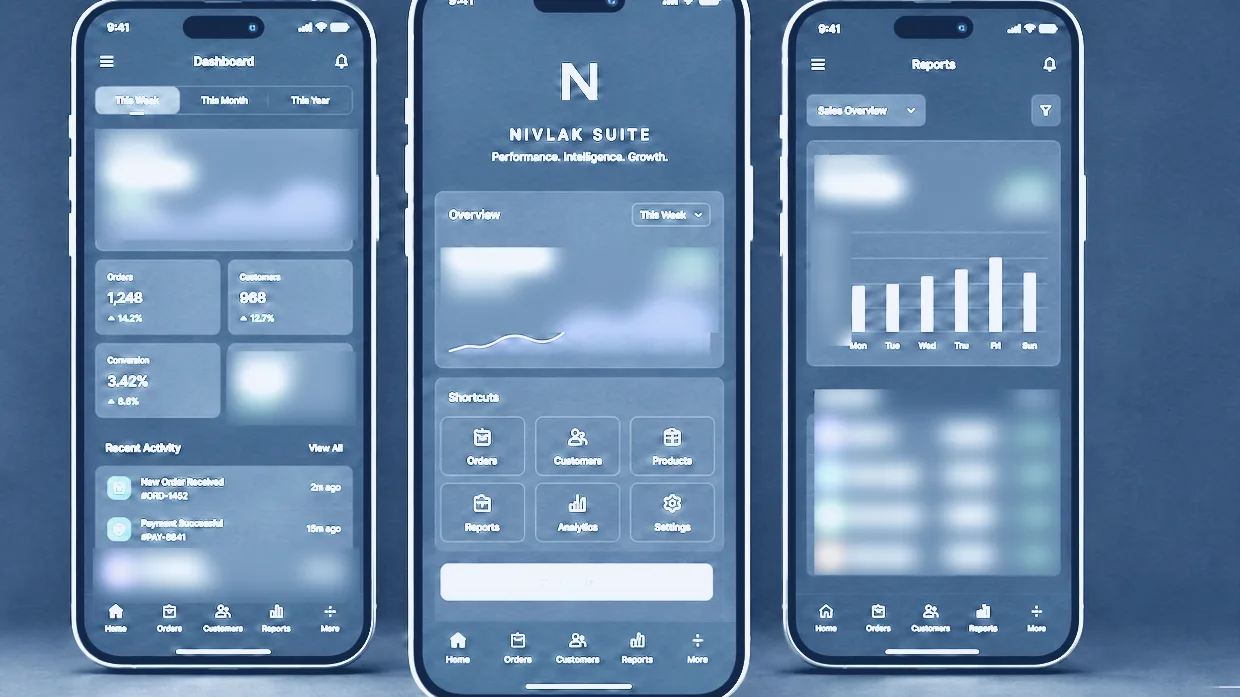
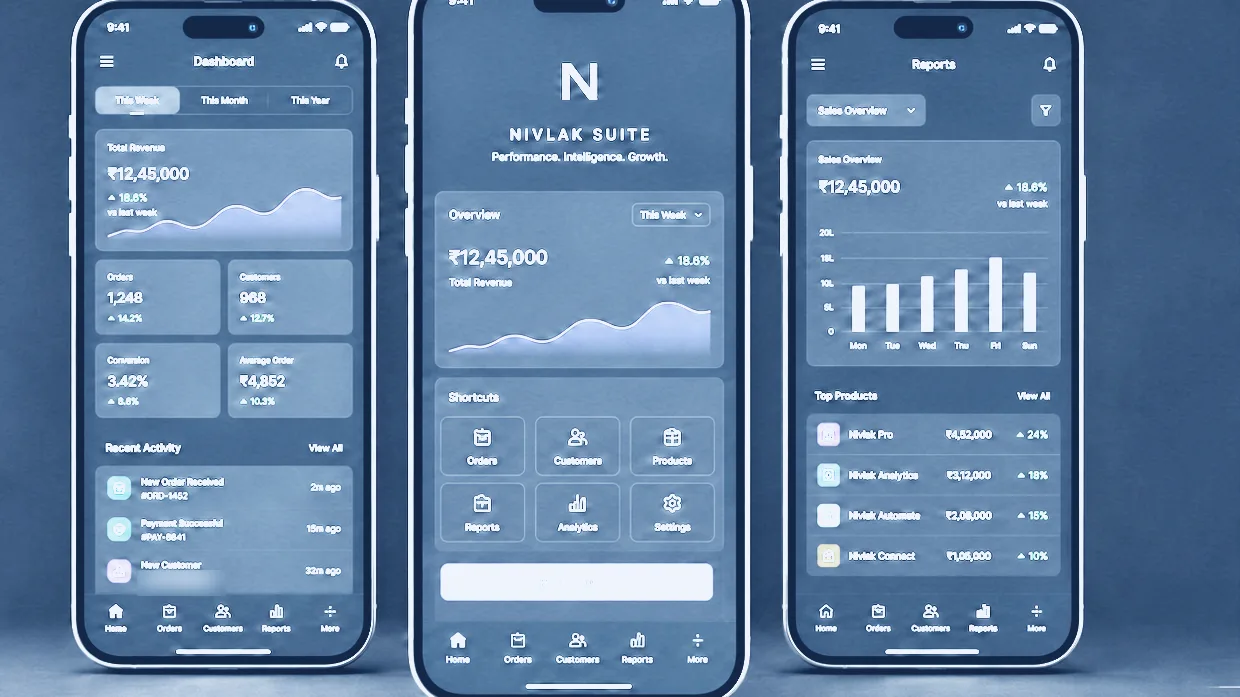
Redact only the customer's name on 04's mobile plate
The rule was "blur anything that names a party or states money", and
mobile is what proved the disjunction too broad. Seven boxes covered
both revenue cards, the axis labels, the sales chart and a Top Products
table listing Nivlak's OWN products; once the tone came up to 03's
contrast the plate read as a censored phone rather than as software. A
third of the picture was smear, and a plate you cannot read fails the
only reason these are photographs and not emblems.

Six of the seven were over the app talking about itself. A KPI card
reading "Total Revenue Rs 12,45,000" inside a dashboard mockup is the
demo app's sample data, the same kind of thing as "128 tasks completed,
up 24%" that this file already kept. What makes a picture read as
delivered client work is a company that could be phoned AGAINST an
amount that could have been paid -- both halves, not either.

So: 96x28 over the second line of one activity row, where "New Customer"
is followed by "Acme Corporation". The label and the timestamp stay
legible; a customer arriving is a thing an app does, and only the
customer's name is a claim about the world.

The two client TABLES on the web and SaaS plates are the other kind and
do not move. Their money-only boxes are noted in the header as no longer
required by the refined rule; they are small and left in place.

Claude-Session: https://claude.ai/code/session_01TT9zK3uUmLrvKdM5gyNRsc

diff --git a/CLAUDE.md b/CLAUDE.md
@@ -466,9 +466,17 @@ against amounts paid, MRR, churn. Chapter 04's whole argument is that a reader
 can tell a study from a build, and a picture of a named client paying an invoice
 printed beside an entry that says CONCEPT does not read as a contradiction — the
 picture wins and the label becomes decoration. Those regions are blurred, under one rule the header
-states: **blur anything that names a party or states money; keep counts, hours,
-percentages and unlabelled charts.** Money hides in axis labels — both revenue
-charts label theirs in lakhs and both needed a box of their own.
+states: **blur where a third party is named; money goes only when it is
+attached to one.** Both halves of the claim are needed — a company that could
+be phoned *against* an amount that could have been paid. The rule used to be
+the disjunction, names OR money, and 04's mobile plate is what proved that too
+broad: seven boxes covered both revenue cards, the axis labels, the sales chart
+and a Top Products table listing Nivlak's OWN products, and once the tone came
+up to 03's contrast the plate read as a censored phone. Six of the seven were
+over the app talking about itself. What is left is 96x28 over one customer
+name. A KPI card in a dashboard mockup is the demo app's sample data, the same
+kind of thing as "128 tasks completed, up 24%"; the two client TABLES on the
+web and SaaS plates are the other kind and never come off.
 
 The 560px output used to be the backstop that made the redaction true rather
 than merely covered. It is not any more: a full-measure stage needs 1240px
